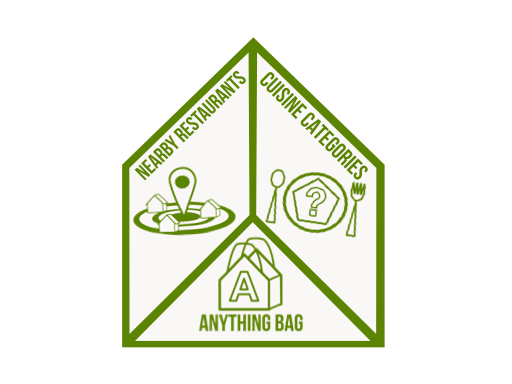
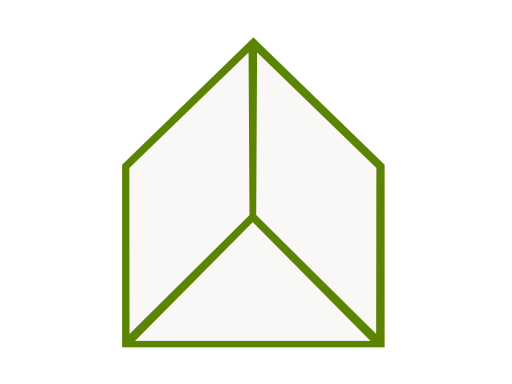
Add files via upload

Changed region(s): [[0.25, 0.1875, 0.7188, 0.875]]

diff --git a/nearbyRest.html b/nearbyRest.html
@@ -1,0 +1,35 @@
+<!DOCTYPE html>
+<html>
+  <head>
+    <link rel = "stylesheet" href= "milestone_3.css">
+  </head>
+<body>
+    <div id = "logo">
+        <a href="pentanav.html">
+            <img src = "logo.png" width = "150" height = "100" style = "border:5px solid black">
+        </a>
+    </div>
+    <div id = "categories-text">
+        <h1 style ="font-weight: bold; color: black">Nearby Restaurants</h1>
+    </div>
+
+    <div id = "categories">
+        <img src = "nearby.png" width = "746" height = "439" usemap = "#image-map1">
+
+        <map name="#image-map1">
+            <area alt="Tim_Hortons" title="Tim hortons currently open" href="signup.html" coords="6,7,248,7,247,182,127,251,7,183" shape="poly">
+            <area alt="KFC" title="KFC currently open" href="" coords="254,7,252,181,374,252,494,183,494,7" shape="poly">
+            <area alt="Not_Available" title="Magic Sushi currently closed" coords="500,7,742,6,742,183,623,250,502,181" shape="poly">
+            <area alt="Not_Available" title="Little Caesar's currently closed" coords="250,188,128,258,129,432,372,432,371,258" shape="poly">
+            <area alt="Not_Available" title="Kawaii Crepe currently closed" coords="498,188,377,257,378,432,618,433,620,259" shape="poly">
+        </map>
+    </div>
+
+    <div id = "cart">
+    <img src = "Cart.png" width = "150" height = "100" usemap = "#image-map">
+        <map name="#image-map">
+            <area target="" alt="" title="" href="" coords="34,130,427,452" shape="rect">
+        </map>
+    </div>
+  </body>
+</html>

diff --git a/pentanav.html b/pentanav.html
@@ -7,35 +7,22 @@
 <h1> Welcome to the website!</h1>
 
 
-  <img src="Pentagon.png" alt="Pentagon" usemap="#penta">
+<svg style="fill-rule:evenodd;clip-rule:evenodd;stroke-linecap:round;stroke-linejoin:round;" xmlns="http://www.w3.org/2000/svg"  viewBox="0 0 1024 768">
 
-  <map name="penta">
-    <area class="nearbyRes" shape="poly" coords="121,167,254,39,253,219,121,347" onclick="nearby()" onmouseover="writeText('WAZZA FOLLS')">
-    <area class="cuisineCat" shape="poly" coords="253,38 385,166 384,347 253,217" onclick="cuisine()" onmouseover="writeText('Queeeseeen')">
-    <area class="anythingBag" shape="poly" coords="252,218 384,347 122,347" onclick="bag()" onmouseover="writeText('DIS BE THE ANYTHING BAGGG')">
-  </map>
-
-  <p id="desc">Mouse over the sun and the planets and see the different descriptions.</p>
-  <script>
-
-  function writeText(txt) {
-    document.getElementById("desc").innerHTML = txt;
-  }
-
-  function nearby() {
-    alert("NEARBY");
-  }
-
-  function cuisine() {
-    alert("Cusinees");
-  }
-
-  function bag() {
-    alert("Anything Bag!!!!");
-  }
-  </script>
-
-
+<defs/>
+<g id="Pentagon">
+<path d="M505+75L770+330L770+695L245+695L245+330L505+75Z" fill="#5c8403"/>
+</g>
+<g id="Para-Left">
+<path d="M260+335L495+105L500+430L260+665" fill="#faf7f7"/>
+</g>
+<g id="Para-Right">
+<path d="M750+335L515+105L515+430L750+665" fill="#faf7f7"/>
+</g>
+<g id="Triangle">
+<path d="M735+680L505+445L270+680" fill="#faf7f7"/>
+</g>
+</svg>
 
 <div id = "cart">
   <img src = "Cart.png" width = "150" height = "100">

diff --git a/categories.html b/categories.html
@@ -10,10 +10,34 @@
     <h1 style ="font-weight: bold; color: black">Restaurant Categories</h1>
 </div>
 
-<div id = "categories">
-    <img src = "categories1.png" width = "806" height = "482">
+<div id = "category-buttons">
+    <div id = "up">
+        <img src = "up.png" width = "150" height = "100">
+    </div>
+
+    <div id = "categories">
+      <img src="categories.png" width = "1280" height = "720" usemap="#image-map">
+
+      <map name="image-map">
+          <area target="" alt="" title="" href="" coords="12,43,370,42,371,303,190,409,11,305" shape="poly">
+          <area target="" alt="" title="" href="" coords="381,44,742,41,743,306,561,409,383,306" shape="poly">
+          <area target="" alt="" title="" href="" coords="752,42,1113,43,1114,306,936,410,753,303" shape="poly">
+          <area target="" alt="" title="" href="" coords="377,312,557,418,558,679,194,679,195,418" shape="poly">
+          <area target="" alt="" title="" href="" coords="748,314,928,418,928,679,567,678,568,418" shape="poly">
+          <area target="" alt="" title="" href="" coords="1200,34,1150,104,1250,104" shape="poly">
+          <area target="" alt="" title="" href="" coords="1156,609,1248,610,1205,678" shape="poly">
+      </map>
+    </div>
+ 
+
+    <div id = "down">
+        <img src = "down.png" width = "150" height = "100">
+    </div>
+
   </div>
 
+
+</div>
 <div id = "cart">
   <img src = "Cart.png" width = "150" height = "100">
 </div>
